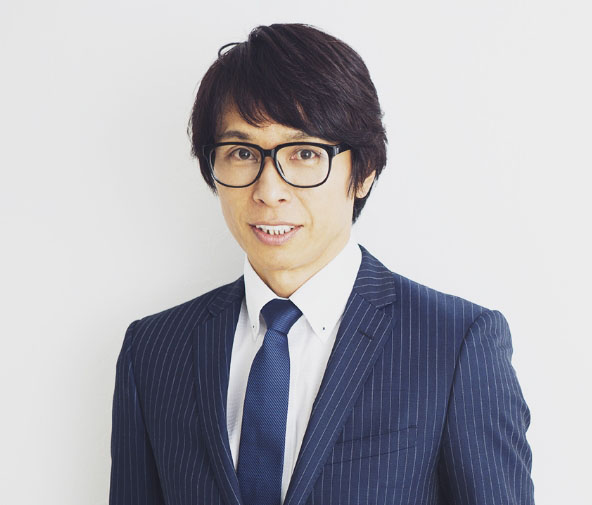
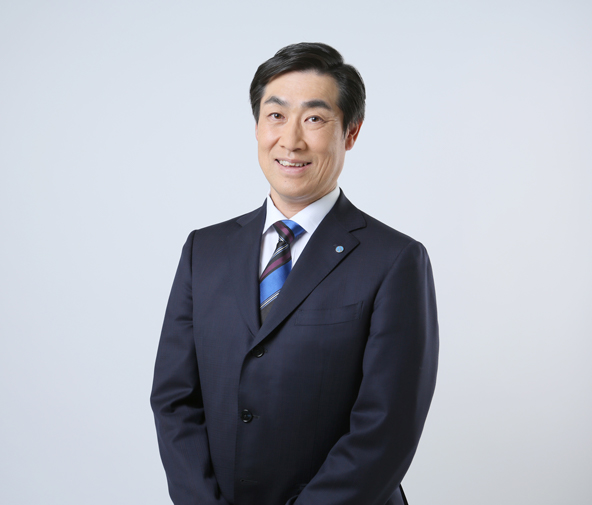
add finished

diff --git a/index01.html b/index01.html
@@ -371,7 +371,7 @@
                             <div class="people-slider-wrap">
                                 <a href="./people/people01/" class="people-link">
                                     <figure class="people-img">
-                                        <img src="./images/top/img_people1.jpg" alt="ダミーです一体感を持って好きな設計の仕事に熱中できる">
+                                        <img src="./images/top/img_people01.jpg" alt="技術力を究めて、頼られる存在になりたい">
                                     </figure>
                                     <div class="balance-more bttn-more">
                                         <span>more</span>
@@ -379,11 +379,11 @@
                                 </a>
                                 <div class="people-content font14">
                                     <span class="text-box-color">People 01</span>
-                                    <h4 class="color-blue fontM font18">ダミーです一体感を持って<br> 好きな設計の仕事に熱中できる
+                                    <h4 class="color-blue fontM font18">技術力を究めて、<br> 頼られる存在になりたい
                                     </h4>
-                                    <p>自動車技術部／第2内装設計室3G<br> 2006年入社
+                                    <p>自動車技術2部／第22設計室1G（一般）<br> 工学部建築学科専攻
                                     </p>
-                                    <span class="text-sign font23">T.Y</span>
+                                    <span class="text-sign font23">K.K</span>
                                 </div>
                             </div>
                             <span class="icon-add top"></span>
@@ -393,7 +393,7 @@
                             <div class="people-slider-wrap">
                                 <a href="./people/people02/" class="people-link">
                                     <figure class="people-img">
-                                        <img src="./images/top/img_people2.jpg" alt="技術力を究めて頼られる存在になりたい">
+                                        <img src="./images/top/img_people02.jpg" alt="ものづくりの醍醐味を、日々感じながら働ける">
                                     </figure>
                                     <div class="balance-more bttn-more">
                                         <span>more</span>
@@ -401,30 +401,8 @@
                                 </a>
                                 <div class="people-content font14">
                                     <span class="text-box-color">People 02</span>
-                                    <h4 class="color-blue fontM font18">技術力を究めて<br> 頼られる存在になりたい</h4>
-                                    <p>自動車技術2部／第22設計室1G（一般）<br> 2018年入社
-                                    </p>
-                                    <span class="text-sign font23">K.K</span>
-                                </div>
-                            </div>
-                            <span class="icon-add top"></span>
-                            <span class="icon-add bottom"></span>
-                        </div>
-                        <div class="people-slider-inner slider-three">
-                            <div class="people-slider-wrap">
-                                <a href="./people/people03/" class="people-link">
-                                    <figure class="people-img">
-                                        <img src="./images/top/img_people1.jpg" alt="ものづくりの醍醐味を、日々感じながら働ける">
-                                    </figure>
-                                    <div class="balance-more bttn-more">
-                                        <span>more</span>
-                                    </div>
-                                </a>
-                                <div class="people-content font14">
-                                    <span class="text-box-color">People 03</span>
-                                    <h4 class="color-blue fontM font18">ものづくりの醍醐味を、<br> 日々感じながら働ける
-                                    </h4>
-                                    <p>自動車技術1部／第14設計室3G<br> 2015年
+                                    <h4 class="color-blue fontM font18">ものづくりの醍醐味を、<br>日々感じながら働ける</h4>
+                                    <p>自動車技術1部／第14設計室　3G<br> 交通機械工学科専攻
                                     </p>
                                     <span class="text-sign font23">H.Y</span>
                                 </div>
@@ -434,19 +412,19 @@
                         </div>
                         <div class="people-slider-inner slider-three">
                             <div class="people-slider-wrap">
-                                <a href="./people/people04/" class="people-link">
+                                <a href="./people/people03/" class="people-link">
                                     <figure class="people-img">
-                                        <img src="./images/top/img_people4.jpg" alt="開発の面白さが分かってきた今こそ、果敢に挑戦していきたい">
+                                        <img src="./images/top/img_people03.jpg" alt="開発の面白さが分かってきた今こそ、果敢に挑戦していきたい">
                                     </figure>
                                     <div class="balance-more bttn-more">
                                         <span>more</span>
                                     </div>
                                 </a>
                                 <div class="people-content font14">
-                                    <span class="text-box-color">People 04</span>
-                                    <h4 class="color-blue fontM font18">開発の面白さが分かってきた今こそ、<br> 果敢に挑戦していきたい
+                                    <span class="text-box-color">People 03</span>
+                                    <h4 class="color-blue fontM font18">開発の面白さが分かってきた今こそ、<br>果敢に挑戦していきたい
                                     </h4>
-                                    <p>システム／一般・システム開発室<br> 2017年入社
+                                    <p>システム／一般・システム開発室<br> 現代マネジメント学部専攻
                                     </p>
                                     <span class="text-sign font23">M.S</span>
                                 </div>

diff --git a/field/engineer/index.html b/field/engineer/index.html
@@ -247,11 +247,11 @@
                                     人材力と技術領域</a>
                                 </li>
                                 <li class="">
-                                    <a href="../../field/technology/">
+                                    <a href="../../field/engineer/">
                                     BEXエンジニアとは</a>
                                 </li>
                                 <li class="">
-                                    <a href="../../field/engineer/">技術領域</a>
+                                    <a href="../../field/technology/">技術領域</a>
                                 </li>
                             </ul>
                         </div>

diff --git a/css/greeting.css b/css/greeting.css
@@ -29,6 +29,7 @@
     position: relative;
     z-index: 0;
     line-height: 2;
+    margin-bottom: 40px;
 }
 
 .greeting__introduce h2::before {
@@ -177,5 +178,8 @@
     }
     .greeting__img.only-sp {
         display: block;
+    }
+    .greeting__introduce h2 {
+        margin-bottom: 25px;
     }
 }

diff --git a/css/index.css b/css/index.css
@@ -795,7 +795,7 @@ main .link-go {
 }
 
 .people-content {
-    max-width: 300px;
+    max-width: 305px;
     width: 100%;
     height: 220px;
     max-height: 100%;
